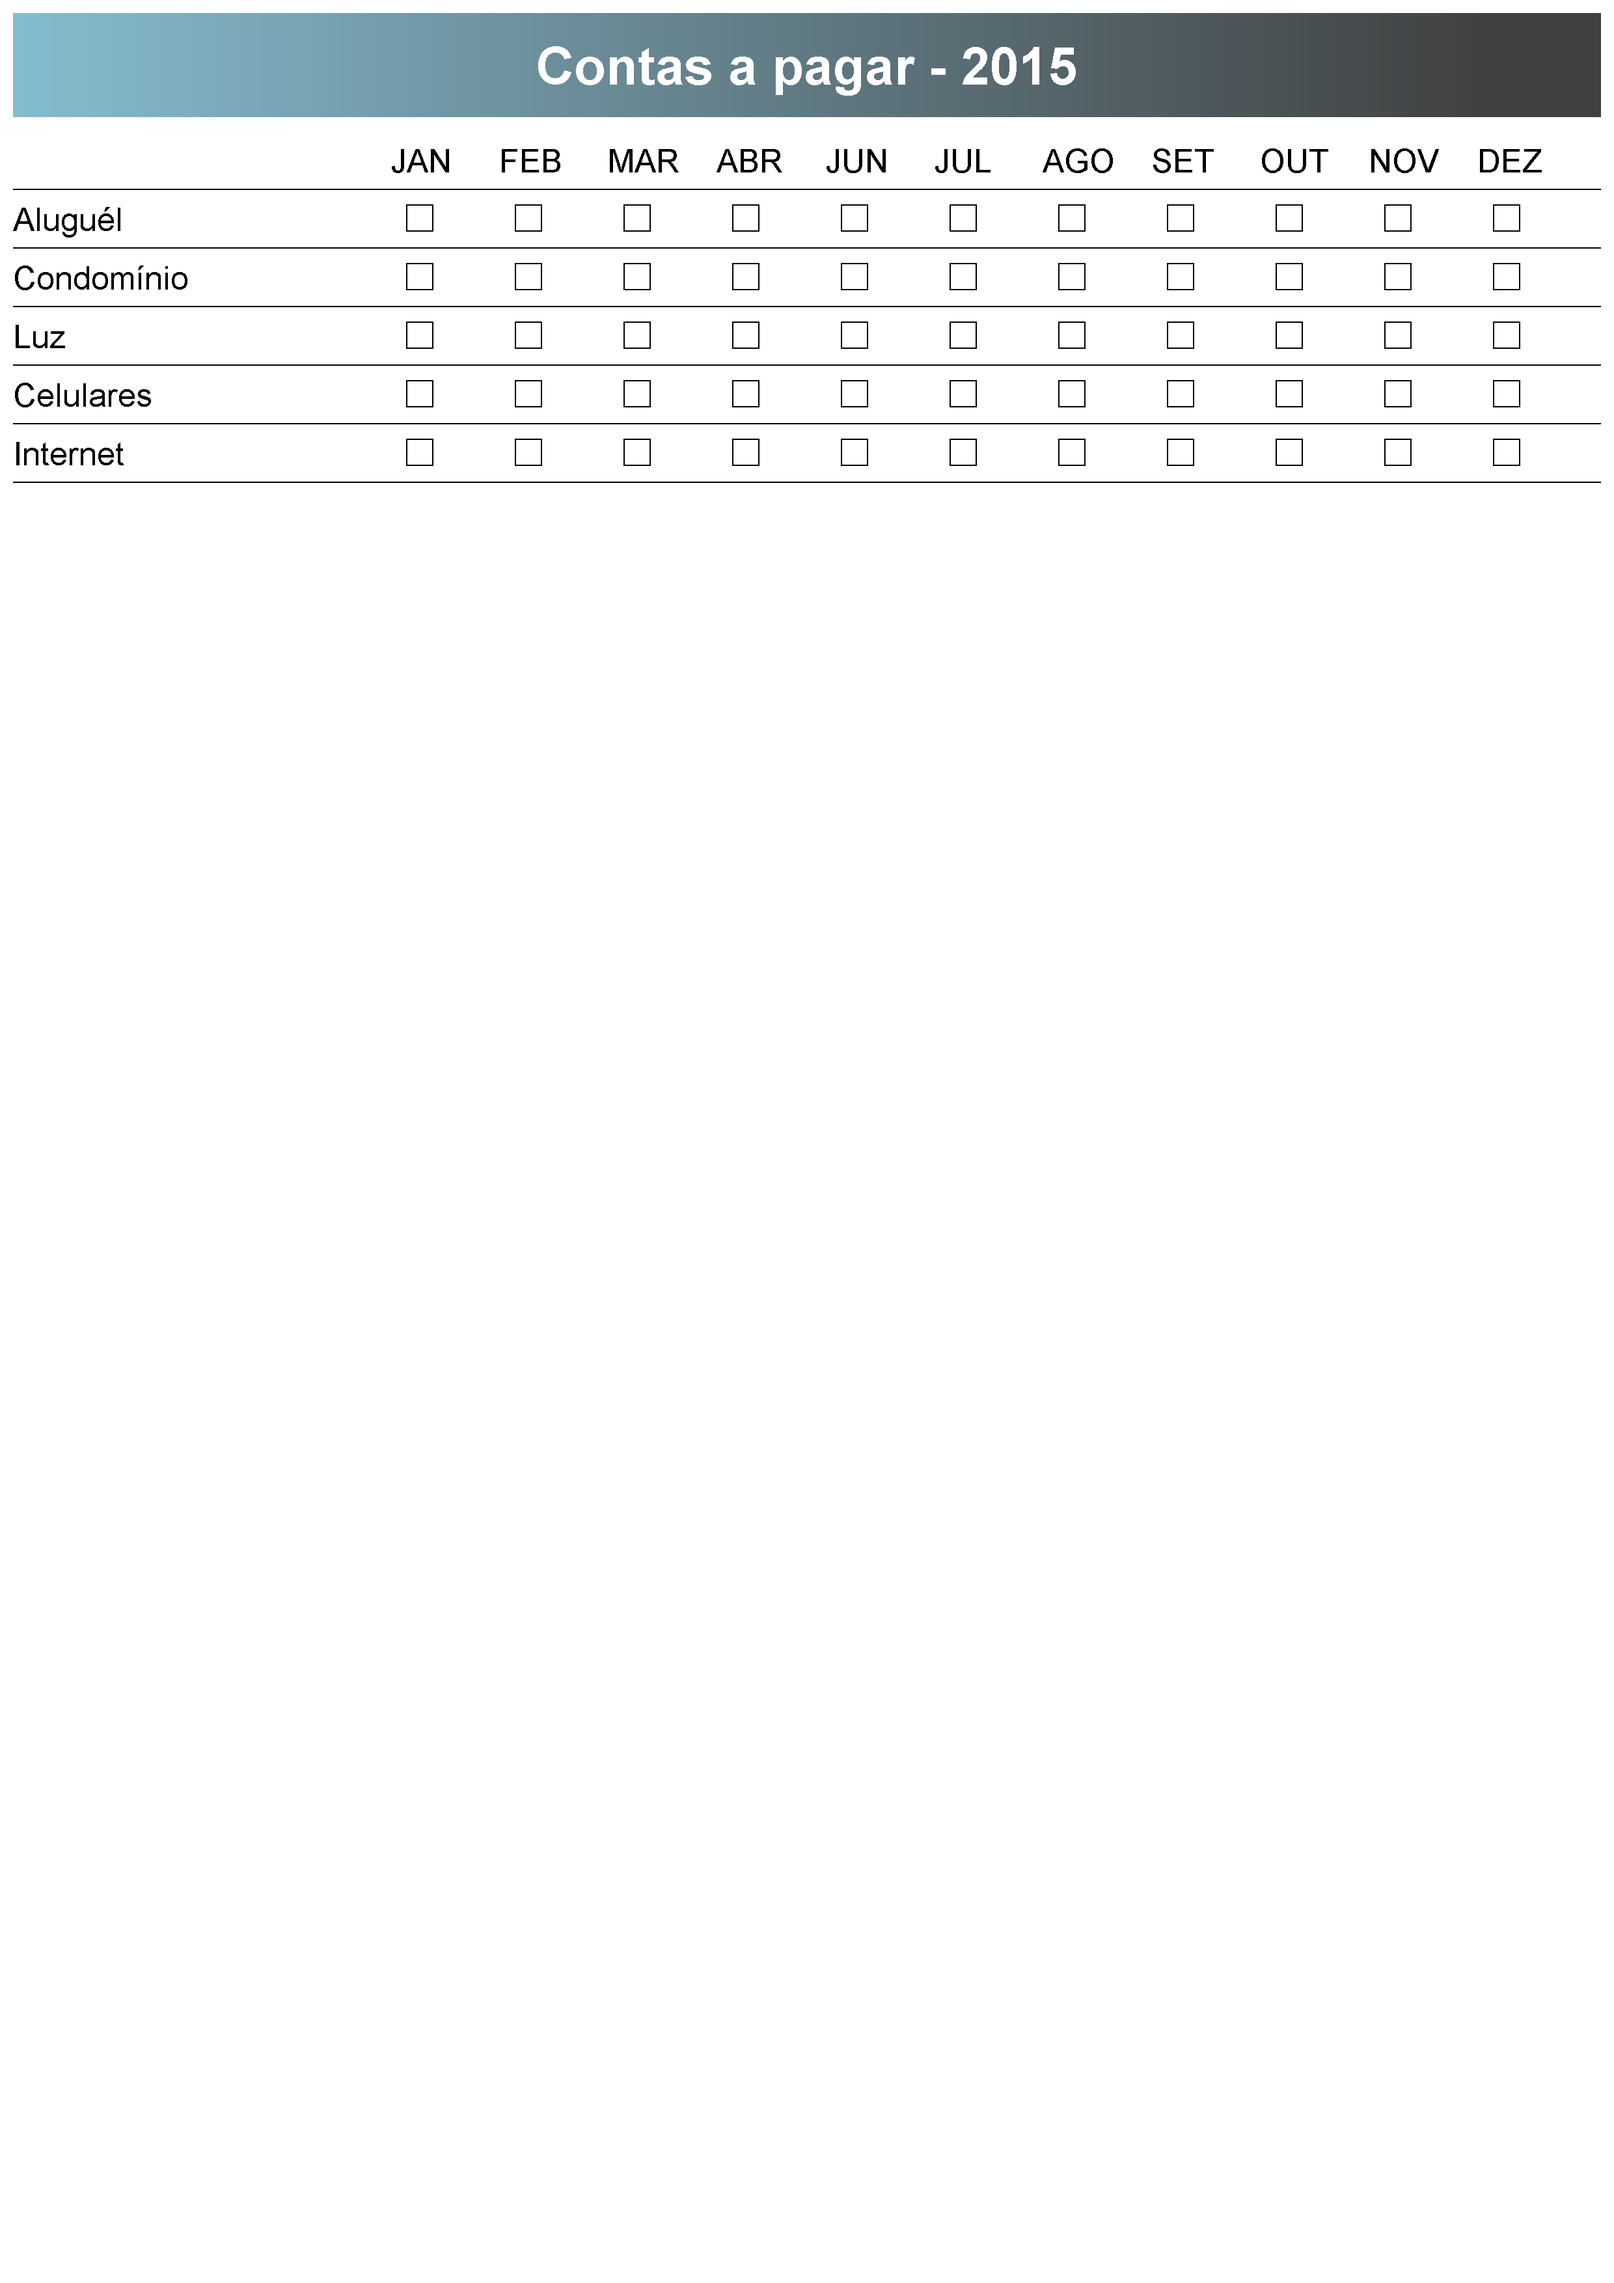
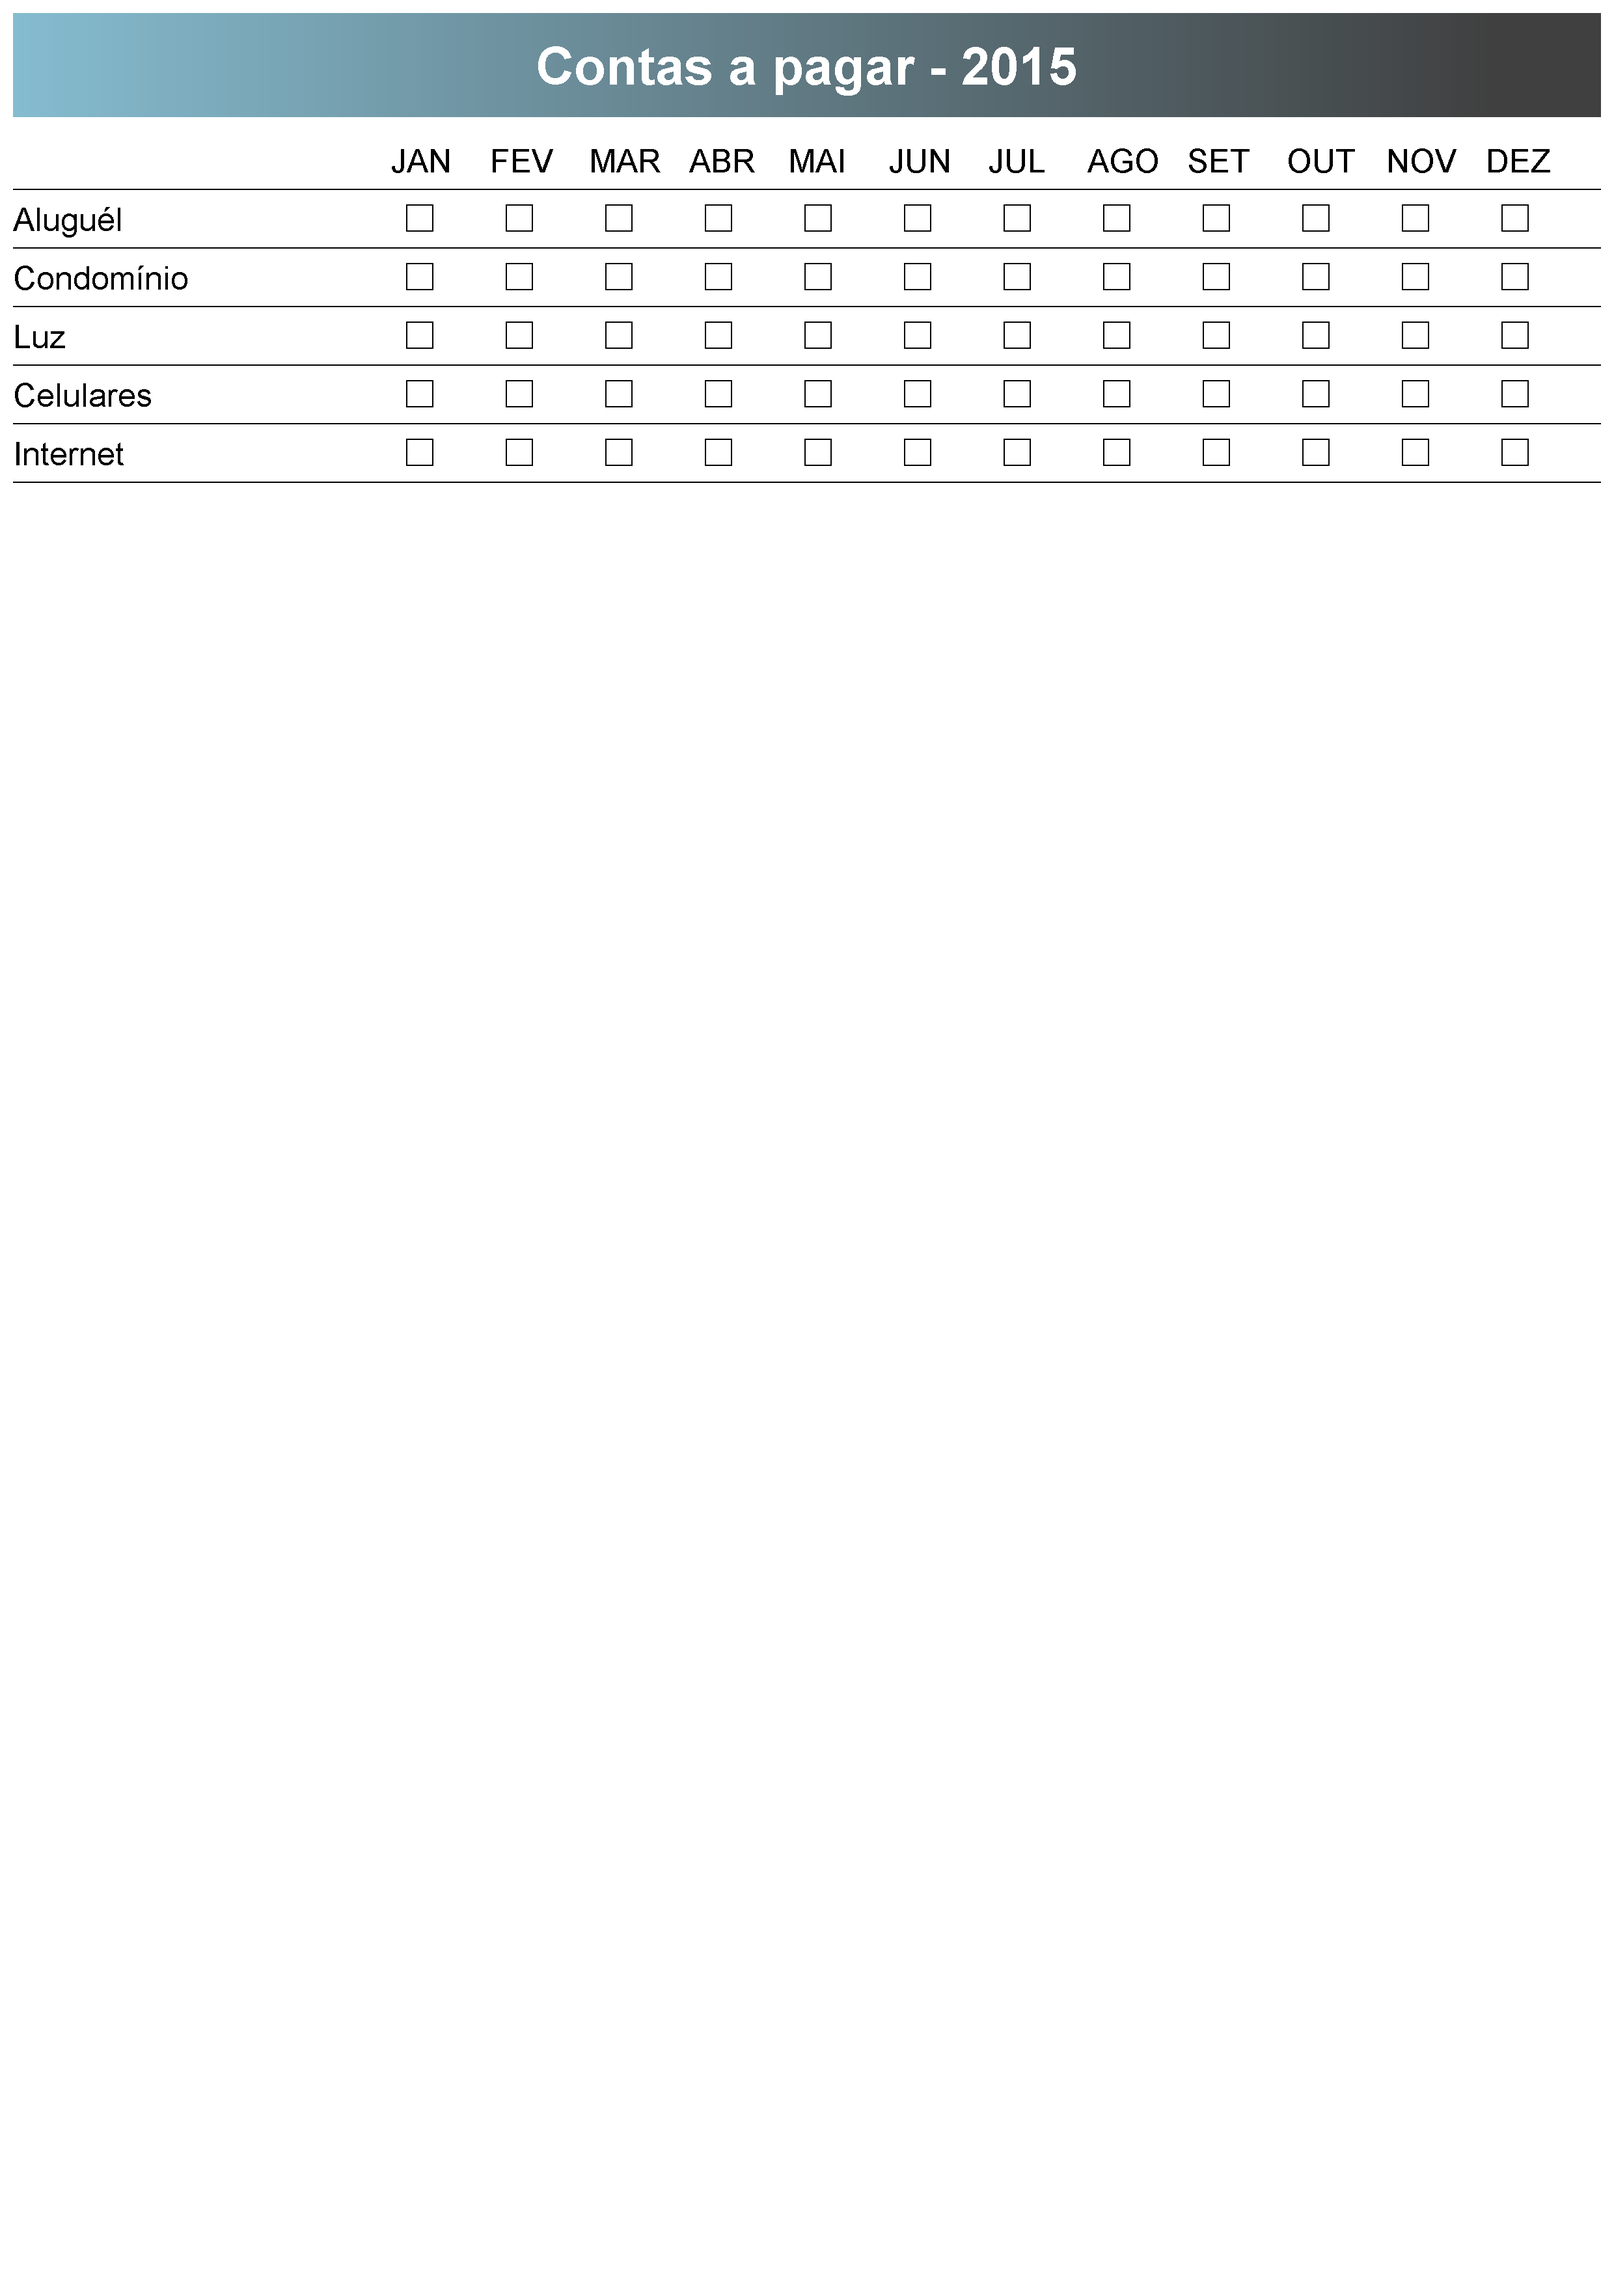
fix bug in array of months

diff --git a/src/com/m104/futebol/model/telas/PlanilhaContas.java b/src/com/m104/futebol/model/telas/PlanilhaContas.java
@@ -28,7 +28,7 @@ public class PlanilhaContas {
 		Graphics2D g2 = bi.createGraphics();
 		
 		String[] contas = {"","Aluguél","Condomínio","Luz","Celulares","Internet"};
-		String[] meses = {"JAN","FEB","MAR","ABR","JUN","JUL","AGO","SET","OUT","NOV","DEZ"};
+		String[] meses = {"JAN","FEV","MAR","ABR","MAI","JUN","JUL","AGO","SET","OUT","NOV","DEZ"};
 		
 		//Estilo de fonte
 		Font fonteTitulo = new Font("Arial", Font.BOLD, 80);
